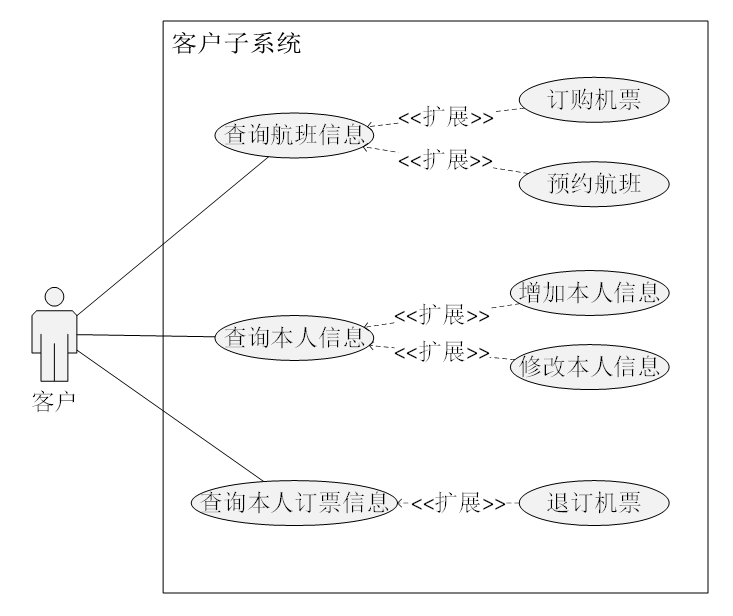
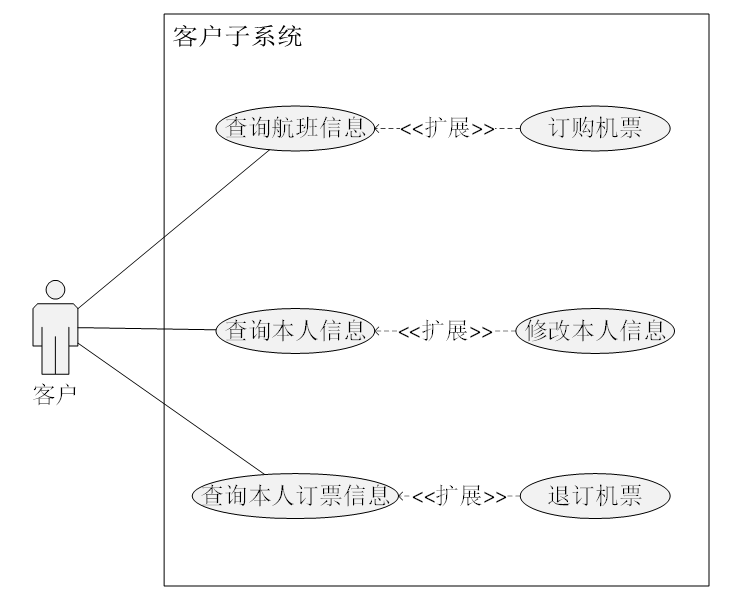
修改客户模块用例图 增加12个用例的数据字典

diff --git a/课程设计-3117004936/需求分析.md b/课程设计-3117004936/需求分析.md
@@ -26,7 +26,7 @@
 |:---|-:-|
 |用例编号|01|
 |用例名|查询航班信息|
-|用例描述|客户、管理员成功登录到系统。|
+|用例描述|客户、管理员进入航班信息查询界面，查询航班信息。|
 |参与者|客户、管理员|
 |前置条件|系统的航班查询页面正常运行|
 |后置条件|显示航班信息|
@@ -35,17 +35,17 @@
 
 
 
-###"增加航班信息用例"
+###"增加航班信息"用例
 <table><tr><td> 用例编号</td><td> 02</td></tr>
 <tr><td>用例名</td><td> 增加航班信息</td></tr>
-<tr><td> 用例描述</td><td> 管理员进入航班信息新增界面,</td></tr>
+<tr><td> 用例描述</td><td> 管理员进入航班信息新增界面,增加新的航班信息</td></tr>
 <tr><td> 参与者</td><td> 管理员</td></tr>
 <tr><td> 前置条件</td><td> 系统的管理员新增航班页面正常运行</td></tr>
 <tr><td> 后置条件</td><td> 存储新增航班信息</td></tr>
 <tr><td> 主事件流</td><td><ol>
 <li>管理员进入系统的管理员新增航班页面；
 <li>管理员输入需要新增航班的航空公司号、航班号、起始地、目的地、起飞时间、一等座座位数及价格、二等座座位数及价格、三等座座位数及价格；
-<li> 管理员提交新增信息；
+<li> 管理员提交更新信息；
 <li> 系统对用户提交的航空公司号、航班号、起始地、目的地进行有效性检查；
 <li> 检查通过，系统显示新增信息成功。
 </ol></td></tr><tr><td>备选事件流</td><td><ul>
@@ -60,7 +60,7 @@
     2. 用户离开或重新输入起始地和目的地
 </ul></td></tr></table>
 
-###"修改航班信息用例"
+###"修改航班信息"用例
 <table><tr><td> 用例编号</td><td> 03</td></tr>
 <tr><td>用例名</td><td> 修改航班信息</td></tr>
 <tr><td> 用例描述</td><td> 管理员进入航班信息修改界面,修改系统中已有航班信息</td></tr>
@@ -70,7 +70,7 @@
 <tr><td> 主事件流</td><td><ol>
 <li>管理员进入系统的所要修改的航班的信息页面；
 <li>点击修改航班按钮
-<li>管理员输入需要新增航班的航空公司号、航班号、起始地、目的地、起飞时间、一等座座位数及价格、二等座座位数及价格、三等座座位数及价格；
+<li>管理员输入需要更新航班的航空公司号、航班号、起始地、目的地、起飞时间、一等座座位数及价格、二等座座位数及价格、三等座座位数及价格；
 <li> 管理员提交新增信息；
 <li> 系统对用户提交的航空公司号、航班号、起始地、目的地进行有效性检查；
 <li> 检查通过，系统显示新增信息成功。
@@ -86,7 +86,7 @@
     2. 用户离开或重新输入起始地和目的地
 </ul></td></tr></table>
 
-###"删除航班信息用例"
+###"删除航班信息"用例
 <table><tr><td> 用例编号</td><td> 04</td></tr>
 <tr><td>用例名</td><td> 删除航班信息</td></tr>
 <tr><td> 用例描述</td><td> 管理员进入航班信息删除界面,修改系统中已有航班信息</td></tr>
@@ -105,7 +105,240 @@
 <li>3a. 管理员没有点击再次删除
 	1. 系统提示取消对该航班的删除操作
 	2. 管理员离开或重新点击删除按钮。
+</ul></td></tr></table>
 
+###"查询客户信息"用例
+<table><tr><td> 用例编号</td><td> 05</td></tr>
+<tr><td>用例名</td><td> 查询客户信息</td></tr>
+<tr><td> 用例描述</td><td> 管理员进入客户信息管理界面,</td></tr>
+<tr><td> 参与者</td><td> 管理员</td></tr>
+<tr><td> 前置条件</td><td> 系统的管理员客户信息管理页面正常运行</td></tr>
+<tr><td> 后置条件</td><td> 显示查询的客户信息</td></tr>
+<tr><td> 主事件流</td><td><ol>
+<li>管理员进入系统的客户信息管理页面；
+<li>管理员选择查询所有客户、或者输入想要查询的客户的身份信息
+<li> 管理员提交查询操作；
+<li> 系统对用户提交的信息进行有效性检查；
+<li> 检查通过，系统显示查询客户的相关信息。
+</ol></td></tr><tr><td>备选事件流</td><td><ul>
+<li>4a. 管理员输入的客户身份信息为空或未被注册
+	1. 系统提示身份信息不能为空或用户名未被注册，并拒绝查询客户信息操作
+	2. 管理员离开或进行全局查询或者重新输入所需查询的客户身份信息。
+</ul></td></tr></table>
+
+###"增加客户信息"用例
+<table><tr><td> 用例编号</td><td> 06</td></tr>
+<tr><td>用例名</td><td> 增加客户信息</td></tr>
+<tr><td> 用例描述</td><td> 管理员进入客户信息新增界面,</td></tr>
+<tr><td> 参与者</td><td> 管理员</td></tr>
+<tr><td> 前置条件</td><td> 系统的管理员新增客户信息页面正常运行</td></tr>
+<tr><td> 后置条件</td><td> 存储新增客户信息</td></tr>
+<tr><td> 主事件流</td><td><ol>
+<li>管理员进入系统的管理员新增客户页面；
+<li>管理员输入需要新增客户的身份信息；
+<li> 管理员提交新增信息；
+<li> 系统对用户提交的客户信息进行有效性检查；
+<li> 检查通过，系统显示新增信息成功。
+</ol></td></tr><tr><td>备选事件流</td><td><ul>
+<li>4a. 管理员输入要新增的客户信息为空或已被注册
+	1. 系统提示客户信息不能为空或已被注册，并拒绝接收输入客户信息
+	2. 管理员离开或重新输入客户信息。
+</ul></td></tr></table>
+
+###"修改客户信息"用例
+<table><tr><td> 用例编号</td><td> 07</td></tr>
+<tr><td>用例名</td><td> 修改客户信息</td></tr>
+<tr><td> 用例描述</td><td> 管理员进入客户信息修改界面,修改系统中已有客户信息</td></tr>
+<tr><td> 参与者</td><td> 管理员</td></tr>
+<tr><td> 前置条件</td><td> 系统的管理员客户信息修改页面正常运行，管理员已经在查询客户信息的显示页面</td></tr>
+<tr><td> 后置条件</td><td> 更新被修改的客户信息</td></tr>
+<tr><td> 主事件流</td><td><ol>
+<li>管理员进入系统的所要修改的客户的信息页面；
+<li>点击修改客户信息按钮
+<li>管理员输入需要更新的客户身份信息；
+<li> 管理员提交更新信息；
+<li> 系统对用户提交的客户信息进行有效性检查；
+<li> 检查通过，系统显示更新信息成功。
+</ol></td></tr><tr><td>备选事件流</td><td><ul>
+<li>4a. 管理员输入要更新的客户信息为空或已被注册
+	1. 系统提示客户信息不能为空或已被注册，并拒绝接收输入客户信息
+	2. 管理员离开或重新输入客户信息。
+</ul></td></tr></table>
+
+###"删除客户信息"用例
+<table><tr><td> 用例编号</td><td> 08</td></tr>
+<tr><td>用例名</td><td> 删除客户信息</td></tr>
+<tr><td> 用例描述</td><td> 管理员进入客户信息删除界面,修改系统中已有客户信息</td></tr>
+<tr><td> 参与者</td><td> 管理员</td></tr>
+<tr><td> 前置条件</td><td> 系统的管理员删除客户页面正常运行，管理员已经在查询客户信息的显示页面</td></tr>
+<tr><td> 后置条件</td><td> 删除数据库中客户信息</td></tr>
+<tr><td> 主事件流</td><td><ol>
+<li>管理员进入系统的所要删除的客户的信息页面；
+<li>管理员点击删除按钮
+<li>管理员点击再次删除按钮
+<li>系统检查所删除客户是否无订票。
+<li>检查通过，系统在数据库中删除与该客户相关的信息
+<li>系统显示客户删除成功。
+</ol></td></tr><tr><td>备选事件流</td><td><ul>
+<li>3a. 管理员没有点击再次删除
+	1. 系统显示取消对该客户的删除操作
+	2. 管理员离开或重新点击删除按钮。
+<li>4a. 该客户存在订票业务
+	1. 系统提示该客户存在订票记录，取消对该客户的删除操作，请先行取消订票信息。
+	2. 管理员离开。
+</ul></td></tr></table>
+
+###"查询订票信息"用例
+<table><tr><td> 用例编号</td><td> 09</td></tr>
+<tr><td>用例名</td><td> 查询订票信息</td></tr>
+<tr><td> 用例描述</td><td> 管理员进入订票信息管理界面,</td></tr>
+<tr><td> 参与者</td><td> 管理员</td></tr>
+<tr><td> 前置条件</td><td> 系统的管理员订票信息管理页面正常运行</td></tr>
+<tr><td> 后置条件</td><td> 显示查询的订票信息</td></tr>
+<tr><td> 主事件流</td><td><ol>
+<li>管理员进入系统的订票信息管理页面；
+<li>管理员选择查询所有订票、或者输入想要查询的订票的筛选信息
+<li> 管理员提交查询操作；
+<li> 系统对用户提交的信息进行有效性检查；
+<li> 检查通过，系统显示查询订票的相关信息。
+</ol></td></tr><tr><td>备选事件流</td><td><ul>
+<li>4a. 管理员输入的订票筛选信息为空或未被创建
+	1. 系统提示身份信息不能为空或用户名未被注册，并拒绝查询订票信息操作
+	2. 管理员离开或进行全局查询或者重新输入所需查询的订票筛选信息。
+</ul></td></tr></table>
+
+###"增加订票信息"用例
+<table><tr><td> 用例编号</td><td> 10</td></tr>
+<tr><td>用例名</td><td> 增加订票信息</td></tr>
+<tr><td> 用例描述</td><td> 管理员进入订票信息新增界面,</td></tr>
+<tr><td> 参与者</td><td> 管理员</td></tr>
+<tr><td> 前置条件</td><td> 系统的管理员新增订票信息页面正常运行</td></tr>
+<tr><td> 后置条件</td><td> 存储新增订票信息</td></tr>
+<tr><td> 主事件流</td><td><ol>
+<li>管理员进入系统的管理员新增订票页面；
+<li>管理员输入需要新增订票的详细信息；
+<li> 管理员提交新增信息；
+<li> 系统对用户提交的订票信息进行有效性检查；
+<li> 检查通过，系统显示新增信息成功。
+</ol></td></tr><tr><td>备选事件流</td><td><ul>
+<li>4a. 管理员输入要新增的订票信息为空或已被创建
+	1. 系统提示订票信息不能为空或已被创建，并拒绝接收输入订票信息
+	2. 管理员离开或重新输入订票信息。
+</ul></td></tr></table>
+
+###"修改订票信息"用例
+<table><tr><td> 用例编号</td><td> 11</td></tr>
+<tr><td>用例名</td><td> 修改订票信息</td></tr>
+<tr><td> 用例描述</td><td> 管理员进入订票信息修改界面,修改系统中已有订票信息</td></tr>
+<tr><td> 参与者</td><td> 管理员</td></tr>
+<tr><td> 前置条件</td><td> 系统的管理员订票信息修改页面正常运行，管理员已经在查询订票信息的显示页面</td></tr>
+<tr><td> 后置条件</td><td> 更新被修改的订票信息</td></tr>
+<tr><td> 主事件流</td><td><ol>
+<li>管理员进入系统的所要修改的订票信息页面；
+<li>点击修改订票信息按钮
+<li>管理员输入需要更新的订票身份信息；
+<li> 管理员提交更新信息；
+<li> 系统对用户提交的订票信息进行有效性检查；
+<li> 检查通过，系统显示更新信息成功。
+</ol></td></tr><tr><td>备选事件流</td><td><ul>
+<li>4a. 管理员输入要更新的订票信息为空或已被创建
+	1. 系统提示订票信息不能为空或已被创建，并拒绝接收输入订票信息
+	2. 管理员离开或重新输入订票信息。
+</ul></td></tr></table>
+
+###"删除订票信息"用例
+<table><tr><td> 用例编号</td><td> 12</td></tr>
+<tr><td>用例名</td><td> 删除订票信息</td></tr>
+<tr><td> 用例描述</td><td> 管理员进入订票信息删除界面,修改系统中已有订票信息</td></tr>
+<tr><td> 参与者</td><td> 管理员</td></tr>
+<tr><td> 前置条件</td><td> 系统的管理员删除订票页面正常运行，管理员已经在查询订票信息的显示页面</td></tr>
+<tr><td> 后置条件</td><td> 删除数据库中订票信息</td></tr>
+<tr><td> 主事件流</td><td><ol>
+<li>管理员进入系统的所要删除的订票的信息页面；
+<li>管理员点击删除按钮
+<li>管理员点击再次删除按钮
+<li>系统在数据库中删除与该订票相关的信息
+<li>系统显示订票删除成功。
+</ol></td></tr><tr><td>备选事件流</td><td><ul>
+<li>3a. 管理员没有点击再次删除
+	1. 系统显示取消对该订票的删除操作
+	2. 管理员离开或重新点击删除按钮。
+</ul></td></tr></table>
+
+###"订购机票"用例
+<table><tr><td> 用例编号</td><td> 13</td></tr>
+<tr><td>用例名</td><td> 订购机票</td></tr>
+<tr><td> 用例描述</td><td> 客户进入机票订购页面,订购已经查询到的航班</td></tr>
+<tr><td> 参与者</td><td> 客户</td></tr>
+<tr><td> 前置条件</td><td> 系统的客户订购机票页面正常运行，客户已经在查询航班信息的显示页面</td></tr>
+<tr><td> 后置条件</td><td> 存储订票信息</td></tr>
+<tr><td> 主事件流</td><td><ol>
+<li>客户进入系统的所要订票的航班信息页面；
+<li>客户点击订购机票按钮；
+<li> 客户提交订购身份信息、座位信息；
+<li> 系统对用户提交的订票信息进行有效性检查；
+<li> 检查通过，系统显示订票成功。
+</ol></td></tr><tr><td>备选事件流</td><td><ul>
+<li>4a. 客户输入的身份信息为空
+	1. 系统提示身份信息不能为空，并拒绝接收输入身份信息和座位信息
+	2. 客户离开或重新输入身份信息和座位信息。
+<li>4b. 客户输入的座位已经售罄。
+	1. 系统提示座位已经售罄，请重新选择其他座位，并拒绝接收输入身份信息和座位信息
+	2. 客户离开或重新输入身份信息和座位信息。
+</ul></td></tr></table>
+
+###"查询个人信息"用例
+<table><tr><td> 用例编号</td><td> 14</td></tr>
+<tr><td>用例名</td><td> 查询个人信息</td></tr>
+<tr><td> 用例描述</td><td> 客户进入个人信息查看页面,查看自己的个人信息</td></tr>
+<tr><td> 参与者</td><td> 客户</td></tr>
+<tr><td> 前置条件</td><td> 系统的客户个人信息页面正常运行</td></tr>
+<tr><td> 后置条件</td><td> 显示个人信息</td></tr>
+<tr><td> 主事件流</td><td><ol>
+<li>客户选择查询个人信息的菜单项；
+<li>系统在数据库中查询客户的个人信息；
+<li>系统跳转到客户个人信息界面；
+<li>显示客户的个人信息
+</ol></td></tr><tr><td>备选事件流</td><td><ul>
+无
+</ul></td></tr></table>
+
+###"修改个人信息"用例
+<table><tr><td> 用例编号</td><td> 15</td></tr>
+<tr><td>用例名</td><td> 修改个人信息</td></tr>
+<tr><td> 用例描述</td><td> 客户进入个人信息修改页面,修改自己的个人信息</td></tr>
+<tr><td> 参与者</td><td> 客户</td></tr>
+<tr><td> 前置条件</td><td> 系统的客户个人信息修改页面正常运行，客户已经进入客户个人信息查看界面</td></tr>
+<tr><td> 后置条件</td><td> 在数据库修改个人信息</td></tr>
+<tr><td> 主事件流</td><td><ol>
+<li>客户在个人信息查看界面点击修改信息按钮；
+<li>客户输入新的个人信息；
+<li>客户提交修改的个人信息；
+<li>系统对用户提交的个人信息进行有效性检查；
+<li>检查通过，系统向数据库修改客户的个人信息。
+</ol></td></tr><tr><td>备选事件流</td><td><ul>
+<li>4a. 客户的提交的个人信息为空
+	1.系统提示个人信息不能为空，请求重新输入，拒绝接受提交的个人信息；
+	2.客户离开或重新输入个人信息；
+</ul></td></tr></table>
+
+
+###"退订机票"用例
+<table><tr><td> 用例编号</td><td> 16</td></tr>
+<tr><td>用例名</td><td> 退订机票</td></tr>
+<tr><td> 用例描述</td><td> 客户进入退订机票页面,取消自己的订票记录</td></tr>
+<tr><td> 参与者</td><td> 客户</td></tr>
+<tr><td> 前置条件</td><td> 系统的退订页面正常运行，客户已经进入客户订票信息查看界面</td></tr>
+<tr><td> 后置条件</td><td> 在数据库删除订票信息</td></tr>
+<tr><td> 主事件流</td><td><ol>
+<li>客户在订票信息查看界面点击退订机票按钮；
+<li>系统要求客户再次确认是否退订机票
+<li>系统增加预订航班的空余座位数
+<li>系统在数据库中删除客户的订票信息；
+</ol></td></tr><tr><td>备选事件流</td><td><ul>
+<li>2a. 客户没有点击确认退订机票按钮
+	1.系统提示取消对预订机票的退订操作；
+	2.客户离开或重新进行退订操作；
 </ul></td></tr></table>
 
 # 分页测试
